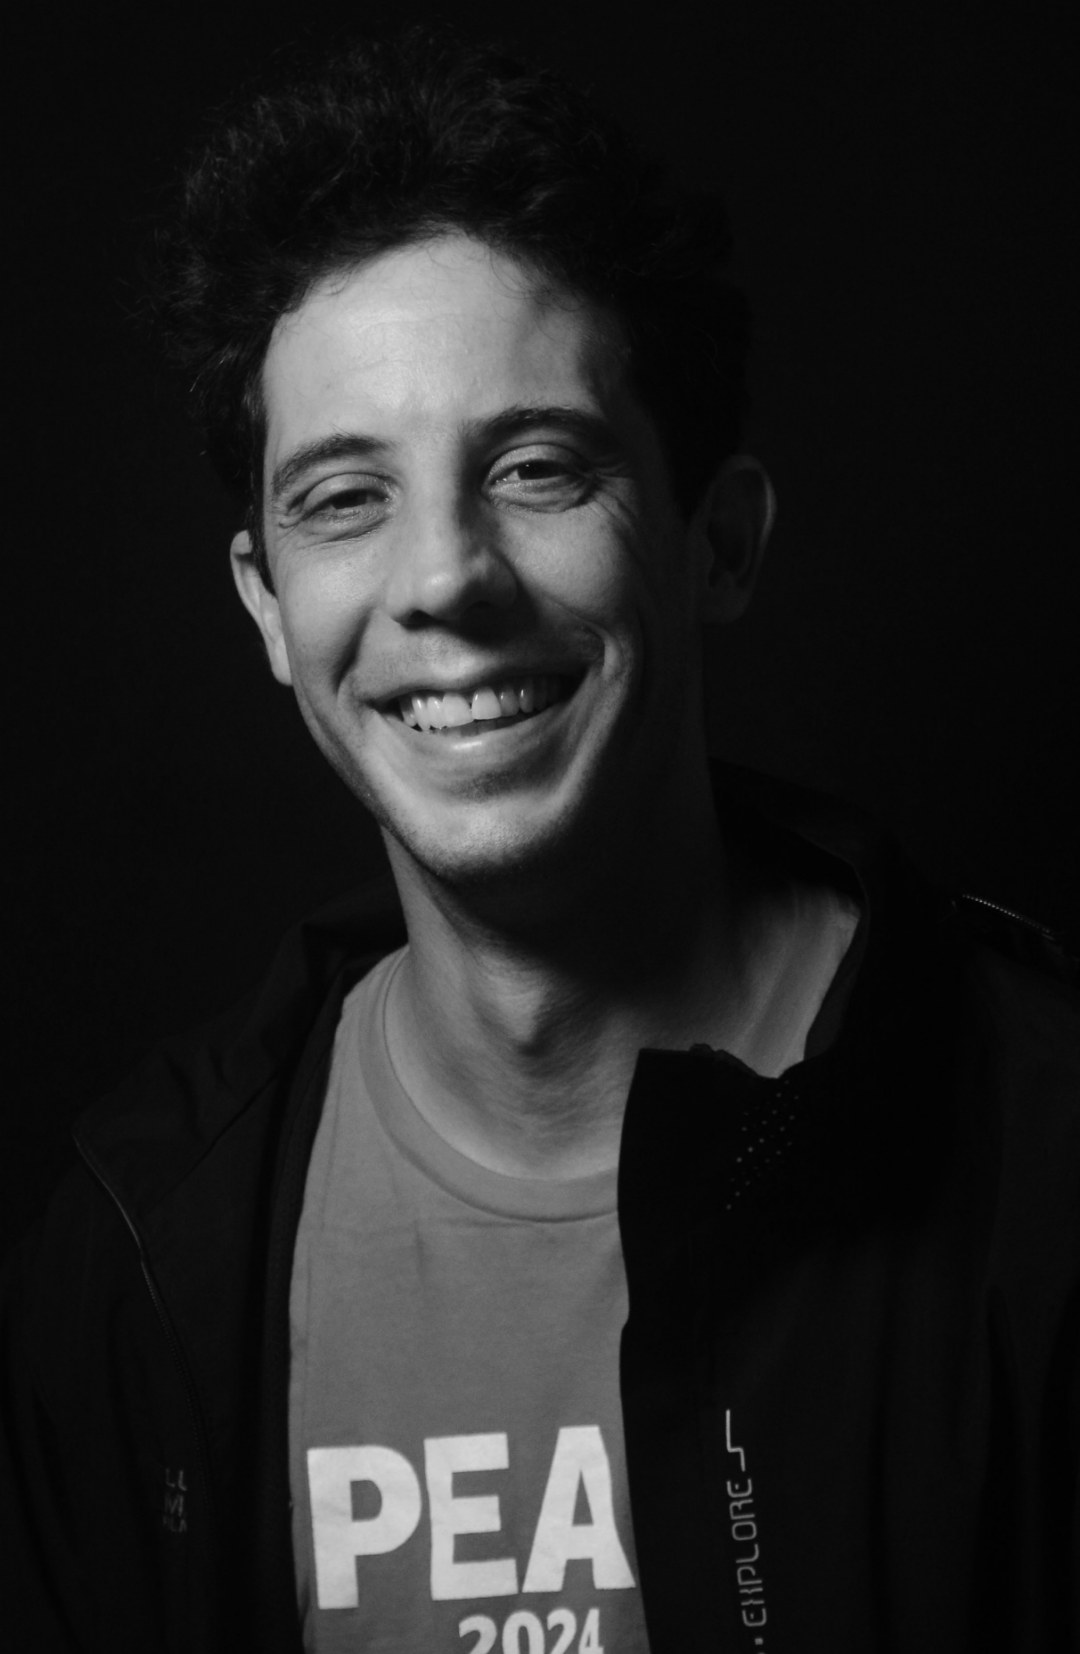
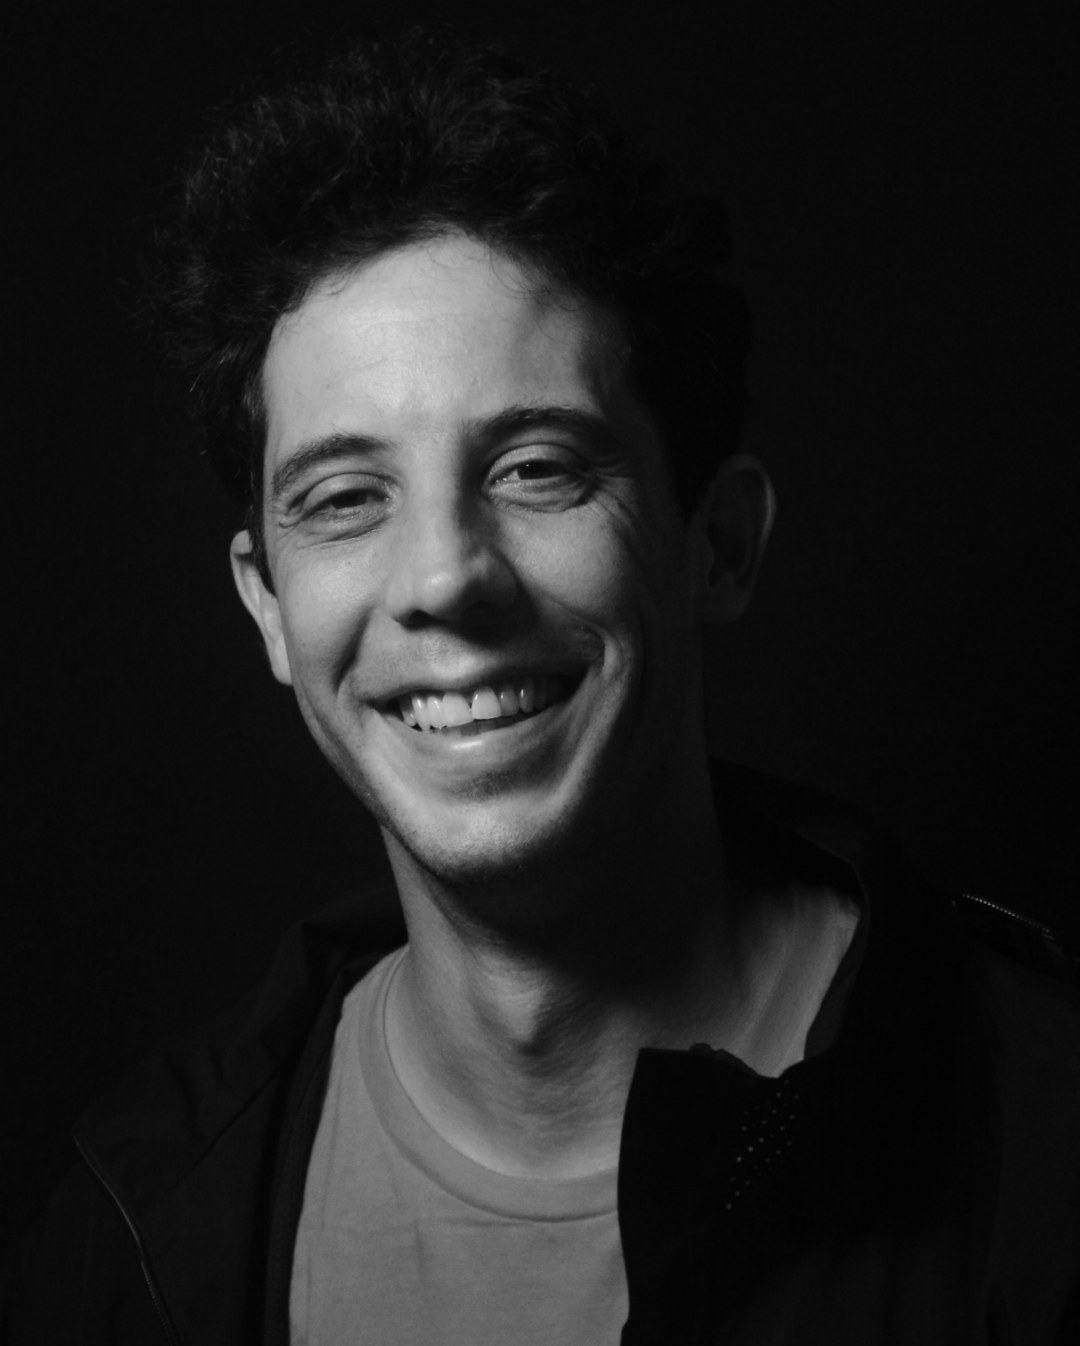
feat(home): nuevo retrato y header a dos tercios de la pantalla

diff --git a/css/styles.css b/css/styles.css
@@ -73,8 +73,8 @@ h3 { font-size: 1.25rem; }
 
 .home-perfil {
   display: grid;
-  grid-template-columns: 1fr 1fr;
-  min-height: calc(100vh - 44px);
+  grid-template-columns: 46% 54%;
+  min-height: calc(66.667vh - 44px);   /* el bloque ocupa dos tercios de la pantalla */
   margin-top: 44px;
   background: #4a4a4a;          /* gris más oscuro que el fondo de la página */
   color: #ffffff;
@@ -101,8 +101,8 @@ h3 { font-size: 1.25rem; }
   display: flex;
   flex-direction: column;
   justify-content: safe center;   /* si no cabe, alinea arriba en vez de recortar */
-  gap: clamp(0.7rem, 1.8vh, 1.4rem);
-  padding: clamp(1.5rem, 3.2vh, 2.5rem) clamp(1.25rem, 3vw, 3.5rem);
+  gap: clamp(0.6rem, 1.5vh, 1.2rem);
+  padding: clamp(1rem, 2.6vh, 2.2rem) clamp(1.1rem, 2.8vw, 3rem);
 }
 
 .perfil-nombre {
@@ -115,7 +115,7 @@ h3 { font-size: 1.25rem; }
 }
 
 .perfil-bloque h2 {
-  margin: 0 0 0.5rem;
+  margin: 0 0 0.35rem;
   font-size: 0.74rem;
   font-weight: 400;
   letter-spacing: 0.18em;
@@ -125,9 +125,9 @@ h3 { font-size: 1.25rem; }
 
 .perfil-bloque p {
   margin: 0;
-  max-width: 48ch;
-  font-size: 0.9rem;
-  line-height: 1.62;
+  max-width: 66ch;
+  font-size: clamp(0.72rem, 1.95vh, 0.88rem);
+  line-height: 1.45;
 }
 
 .perfil-lista {
@@ -138,21 +138,25 @@ h3 { font-size: 1.25rem; }
 }
 
 .perfil-lista li {
-  padding: 0.32rem 0;
+  padding: clamp(0.1rem, 0.3vh, 0.26rem) 0;
   border-top: 1px solid rgba(255, 255, 255, 0.14);
-  font-size: 0.83rem;
-  line-height: 1.4;
+  font-size: clamp(0.7rem, 1.8vh, 0.82rem);
+  line-height: 1.35;
 }
 
-/* En pantallas anchas el curriculum va en dos columnas: con tantos puntos
+/* En pantallas anchas el curriculum va en varias columnas: con tantos puntos
    en una sola columna la lista ya no cabe en el alto de la pantalla. */
-@media (min-width: 1000px) {
+@media (min-width: 900px) {
   .perfil-lista {
     columns: 2;
-    column-gap: 2.25rem;
+    column-gap: 2rem;
     max-width: none;
   }
   .perfil-lista li { break-inside: avoid; }
+}
+
+@media (min-width: 1200px) {
+  .perfil-lista { columns: 3; column-gap: 1.75rem; }
 }
 
 .perfil-lista li:first-child {

diff --git a/html/index.html b/html/index.html
@@ -25,7 +25,7 @@
   <section class="home-perfil">
     <div class="perfil-foto">
       <img src="img/retrato_andres_medium.jpg"
-           srcset="img/retrato_andres_thumb.jpg 261w, img/retrato_andres_medium.jpg 784w, img/retrato_andres_hd.jpg 1080w"
+           srcset="img/retrato_andres_thumb.jpg 321w, img/retrato_andres_medium.jpg 963w, img/retrato_andres_hd.jpg 1080w"
            sizes="(max-width: 699px) 100vw, 50vw"
            alt="Andrés Ramírez Ortíz" fetchpriority="high" decoding="async">
     </div>

diff --git a/MEMORY.md b/MEMORY.md
@@ -18,7 +18,8 @@
 - **v3.6 Tamaños definitivos de imagen**: la **foto principal** se guarda en 3 tamaños (thumb 200 lado mayor, medium 1200 lado mayor, HD 1920 de ancho si es horizontal / 1080 si es vertical). Las **fotos de detalle** solo en 2 (thumb 400 y HD). El zoom usa el HD de la foto seleccionada, la ficha usa medium y las tarjetas el thumb 200. Campos: `imagen`, `imagenMedium`, `imagenHD`, `detalles[{thumb, hd}]`. `_2k` se renombró a `_hd` (125 archivos) con `scripts/migrar-hd.js`; además se quitaron 26 detalles que duplicaban exactamente la portada. Verificado en Chrome: 3000×2000 → 200×133 / 1200×800 / 1920×1280; 2000×3000 → 133×200 / 800×1200 / 1080×1620.
 - **v3.7 Thumbs regenerados**: los 52 thumbs de portada se rehicieron a 200 px (272 KB en total) y los 47 de detalle a 400 px (767 KB), desde su HD y en una sola tanda en el navegador. `img/` bajó de 2,2 MB a 1,0 MB en thumbs. Para poder sobreescribir archivos existentes, `POST /api/imagenes` acepta `archivo` (ruta `img/*_thumb.jpg` ya existente, validada). `npm test` comprueba el lado mayor real de cada thumb leyendo la cabecera JPEG.
 - **v3.8 Thumbs 400 + buscador + sesión de 5 min**: los thumbs de portada volvieron a 400 px (a 200 se veían pixelados) y se regeneraron las 52; se crearon los 24 `_medium` que faltaban, así que **el modal y la ficha siempre usan medium**. Nuevo campo de búsqueda por nombre en la barra de filtros (ignora mayúsculas y tildes, se combina con los demás filtros). El admin ahora cierra la sesión a los **5 minutos sin actividad** (servidor + navegador) y bloquea 15 min tras 8 intentos fallidos.
-- **v3.9 Home con retrato**: se eliminó el hero con el nombre y el fondo de obra aleatoria. Ahora la home abre con `.home-perfil`: alto de pantalla menos la barra (44 px), retrato a la izquierda (`img/retrato_andres_{thumb,medium,hd}.jpg`, 261×400 / 784×1200 / 1080×1654, vertical con `object-position:50% 28%`) y a la derecha el nombre en versalitas, el statement y el curriculum en lista con separadores. Fondo `#4a4a4a` (más oscuro que la página). En móvil una columna: foto 50vh y la info debajo. **La foto es `position:absolute` dentro de su columna**: si no, su altura intrínseca estiraba la sección a ~969 px y el último punto del curriculum quedaba fuera de pantalla. El espaciado usa `clamp()` con `vh` y el curriculum va en **dos columnas por encima de 1000 px** (en una sola, con 11 puntos ya no cabía en el alto de pantalla); así los 11 puntos entran sin scroll de 650 a 900 px. `renderizarHero()` y `obtenerHeroRandom()` quedaron eliminados de `home.js`; el hero de `serie.html` y `pintura.html` no cambió.
+- **v3.10 Perfil a dos tercios con retrato nuevo**: la sección mide `calc(66.667vh - 44px)` (dos tercios de la pantalla) y la galería ya asoma en el primer pantallazo. Retrato reemplazado por el nuevo `Moi-BN.jpg` (2424×3022): 321×400 / 963×1200 / 1080×1346. La columna de foto es 46% y la de texto 54%; el curriculum va en 3 columnas desde 1200 px, 2 desde 900 px y 1 en móvil, con tipografía `clamp()` en `vh` para que los 11 puntos entren sin scroll a 900, 768 y 720 px de alto.
+- **v3.9 Home con retrato**: se eliminó el hero con el nombre y el fondo de obra aleatoria. Ahora la home abre con `.home-perfil`: retrato a la izquierda y a la derecha el nombre en versalitas, el statement y el curriculum en lista con separadores. Fondo `#4a4a4a` (más oscuro que la página). En móvil una columna: foto 50vh y la info debajo. **La foto es `position:absolute` dentro de su columna**: si no, su altura intrínseca estiraba la sección y el último punto del curriculum quedaba fuera de pantalla. `renderizarHero()` y `obtenerHeroRandom()` quedaron eliminados de `home.js`; el hero de `serie.html` y `pintura.html` no cambió.
 - **JS**: `data.js`, `gallery.js`, `home.js`, `pintura.js`, `serie.js`, `admin.js`, `admin-gate.js`, `obra-form.js`, `imagenes.js`, `subir.js`, `editar.js`. (`form.js` es del admin anterior y ya no se carga.)
 
 ## Aprendizajes y errores a evitar

diff --git a/spec.md b/spec.md
@@ -1,7 +1,7 @@
 # spec.md — Galería de Arte Web v2
 
 ## Resumen
-Web estática (HTML/CSS/JS vanilla) con cuatro páginas: **Home** (hero header, franja de pestañas de series arriba del header, sección "año actual", galería por serie), **Admin**, **Detalle de obra**, **Login/Admin**. Los precios se calculan automáticamente `(ancho+alto) × factorPrecioSerie`. Header hero = fondo 2K de la obra más reciente con nombre "Andrés Ramírez Ortíz" encima: 15% de altura en desktop y **33.33vh en mobile** (solo `serie.html` y `pintura.html`, clase `hero-header`). **En Home ese header se reemplazó por una sección de perfil** de alto de pantalla (`min-height: calc(100vh - 44px)`): retrato a la izquierda y, a la derecha, el **statement** y el **curriculum/trayectoria**; fondo gris más oscuro (`#4a4a4a`) y en móvil una sola columna (foto 50vh arriba). Se elimina "Galería de Arte" y búsqueda por título. Paleta en grises (`--bg-primary:#808080` gris 50%, `--bg-secondary:#f2f2f2`, `--text-primary:#0d0d0d`, `--accent:#3a3a3a`); tipografía GFS Didot. Franja de pestañas de series encima del header → hamburguesa móvil; layout idéntico (hero 15% + frost) en home, `serie.html` y `pintura.html`. Cards sin zoom ni `border-radius` (`border-radius:0`, indicador disponible conserva `50%`); `fechaRegistro` no visible en UI pública; i18n `disponibilidad` = "Disponibilidad".
+Web estática (HTML/CSS/JS vanilla) con cuatro páginas: **Home** (hero header, franja de pestañas de series arriba del header, sección "año actual", galería por serie), **Admin**, **Detalle de obra**, **Login/Admin**. Los precios se calculan automáticamente `(ancho+alto) × factorPrecioSerie`. Header hero = fondo 2K de la obra más reciente con nombre "Andrés Ramírez Ortíz" encima: 15% de altura en desktop y **33.33vh en mobile** (solo `serie.html` y `pintura.html`, clase `hero-header`). **En Home ese header se reemplazó por una sección de perfil** de **dos tercios de la pantalla** (`min-height: calc(66.667vh - 44px)`): retrato a la izquierda (46%) y, a la derecha (54%), el **statement** y el **curriculum/trayectoria** en 2–3 columnas; fondo gris más oscuro (`#4a4a4a`) y en móvil una sola columna (foto 50vh arriba). Se elimina "Galería de Arte" y búsqueda por título. Paleta en grises (`--bg-primary:#808080` gris 50%, `--bg-secondary:#f2f2f2`, `--text-primary:#0d0d0d`, `--accent:#3a3a3a`); tipografía GFS Didot. Franja de pestañas de series encima del header → hamburguesa móvil; layout idéntico (hero 15% + frost) en home, `serie.html` y `pintura.html`. Cards sin zoom ni `border-radius` (`border-radius:0`, indicador disponible conserva `50%`); `fechaRegistro` no visible en UI pública; i18n `disponibilidad` = "Disponibilidad".
 
 ## Alcance
 
